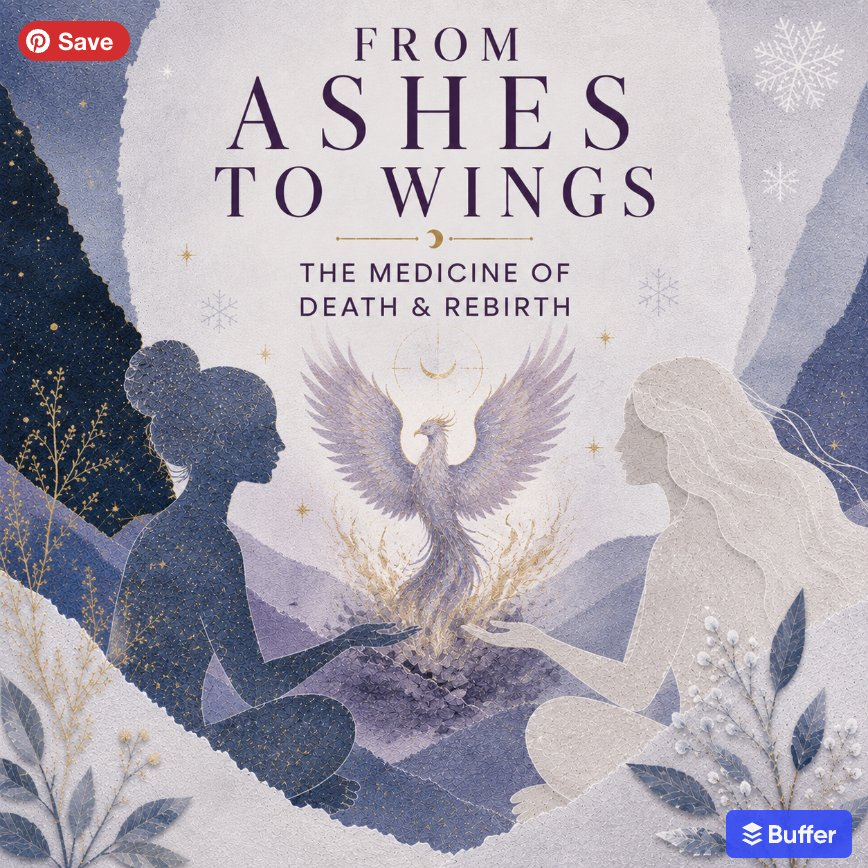
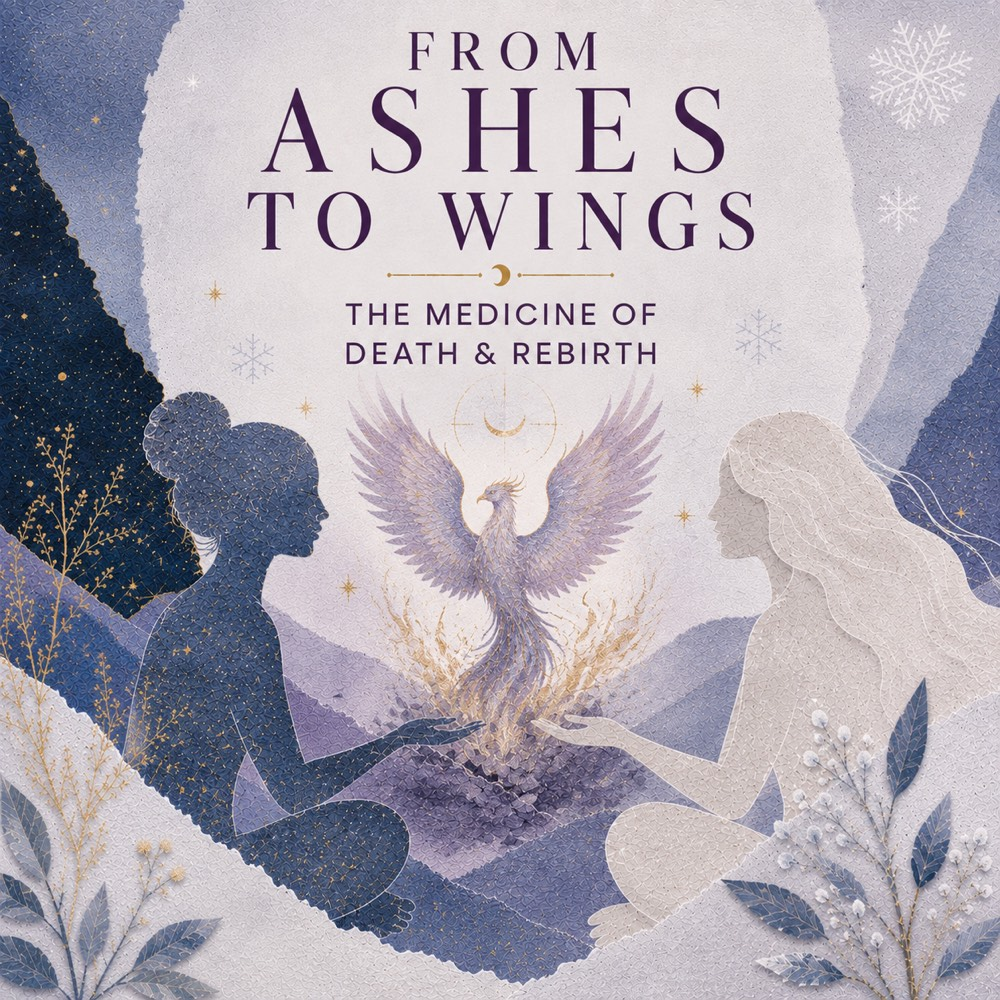
Apply Chris's review: new FAQ answers, December class blurb, clean class artwork, yearly price, Body's Wisdom card points to Membership

Changed region(s): [[0.0, 0.0, 0.1555, 0.0933], [0.8088, 0.9332, 0.9954, 0.9954], [0.0311, 0.4977, 0.0933, 0.5599]]

diff --git a/membership.html b/membership.html
@@ -288,7 +288,7 @@
             "name": "What is the Grove Circle Membership?",
             "acceptedAnswer": {
               "@type": "Answer",
-              "text": "The Grove Circle Membership is a monthly online membership with Chris Young-Ginzburg of Grove Circle Healing, a sound healer and intuitive guide based in Sonoma County, California. Members deepen their intuition and connect with a supportive community through monthly guided meditations, coaching exercises, and exclusive perks."
+              "text": "The Grove Circle Membership is an online community led by Chris Young-Ginzburg, offering monthly interactive classes that support personal growth, intuitive development, and energetic well-being. Each class explores a unique theme through practical teachings, psychic and energy-healing exercises, guided meditation, sound healing, and meaningful group discussion. Members also enjoy monthly Prayer Circles and a growing library of resources to deepen their self-awareness, strengthen their intuition, and feel supported on their journey."
             }
           },
           {
@@ -296,7 +296,7 @@
             "name": "How much does the membership cost?",
             "acceptedAnswer": {
               "@type": "Answer",
-              "text": "The Grove Circle Membership is $30.00 / month with a 5 day free trial."
+              "text": "The Grove Circle Membership is $30.00 / month with a 5 day free trial. A one-year membership is $288 (20% off)."
             }
           },
           {
@@ -320,7 +320,7 @@
             "name": "What is the Prayer Circle?",
             "acceptedAnswer": {
               "@type": "Answer",
-              "text": "The Prayer Circle is a monthly opportunity to participate in a prayer session, for yourself or someone in need, with sound healing, channeled songs, Light Language, and a guided journey."
+              "text": "A monthly opportunity to participate in a prayer session, for yourself or someone in need, including sound healing, channeled songs, Light Language, and a guided journey."
             }
           },
           {
@@ -406,6 +406,9 @@
       text-transform: uppercase;
     }
     .mb-hero__actions { display: flex; flex-wrap: wrap; gap: 0.9rem; align-items: center; }
+    .mb-price-year { margin: -1.2rem 0 2rem; font-size: 0.92rem; color: rgba(255,255,255,0.72); }
+    .mb-price-year a { color: #fff; border-bottom: 1px solid rgba(255,255,255,0.4); }
+    .mb-price-year a:hover { border-color: #fff; }
     .mb-hero__meta { margin-top: 1.7rem; font-size: 0.82rem; color: rgba(255,255,255,0.55); }
     .mb-hero__meta span { margin: 0 0.5rem; }
     .mb-hero__meta a { color: rgba(255,255,255,0.82); border-bottom: 1px solid rgba(255,255,255,0.3); transition: color 0.2s ease, border-color 0.2s ease; }
@@ -942,6 +945,7 @@
             <span class="mb-price__per">/ month</span>
             <span class="mb-price__trial">with 5 day free trial</span>
           </div>
+          <p class="mb-price-year animate animate-delay-3">Or one year for $288 (20% off). <a href="https://grovecirclehealing.thinkific.com/enroll/3003373?price_id=3893579">Choose yearly</a></p>
           <div class="mb-hero__actions animate animate-delay-4">
             <a href="https://grovecirclehealing.thinkific.com/cart/add_product/3003373?price_id=3861534" class="btn btn-primary">Sign Up Here</a>
             <button type="button" class="btn btn-ghost-white" data-open-video><span class="mb-play-dot" aria-hidden="true"></span>Watch Intro Video</button>
@@ -977,12 +981,13 @@
     <div class="container">
       <div class="mb-next__card animate">
         <div class="mb-next__art">
-          <img src="img/from-ashes-to-wings-2026.jpg" alt="From Ashes to Wings: The Medicine of Death and Rebirth class artwork" width="868" height="868" loading="lazy" decoding="async">
+          <img src="img/from-ashes-to-wings-2026.jpg" alt="From Ashes to Wings: The Medicine of Death and Rebirth class artwork" width="1000" height="1000" loading="lazy" decoding="async">
         </div>
         <div class="mb-next__body">
           <p class="eyebrow eyebrow--gold" style="margin-bottom:1rem;">Next Class</p>
           <h2>"From Ashes to Wings: The Medicine of Death &amp; Rebirth"</h2>
-          <p style="margin-bottom:1rem;">Honor the year’s transformations through reflection, journaling, and restorative sound healing as you release what is ending and welcome your next chapter with trust, clarity, and intention.</p>
+          <p style="margin-bottom:1rem;">Reflect on the endings, transformations, and new beginnings that shaped your 2026. Through guided discussion, journaling, intuitive reflection, and a restorative sound healing meditation, we’ll honor what’s being released and explore what’s emerging as you prepare for 2027.</p>
+          <p style="margin-bottom:1rem;">This 90-minute online class invites you to bring a journal, pen, and a comfortable place to meditate. A recording will be available in the Membership library.</p>
           <p>Begins, Dec. 4th, 2026, 10AM Pacific. Sign up today to unlock your intuitive potential!</p>
           <ul class="mb-clock" id="mbClock" role="timer" data-deadline="2026-12-04T10:00:00-08:00">
             <li><span class="mb-clock__n" data-unit="d">00</span><strong>Days</strong></li>
@@ -1261,11 +1266,11 @@
       <div class="faq-list">
         <div class="faq-item animate">
           <h3>What is the Grove Circle Membership?</h3>
-          <p>The Grove Circle Membership is a monthly online membership with Chris Young-Ginzburg of Grove Circle Healing, a sound healer and intuitive guide based in Sonoma County, California. Members deepen their intuition and connect with a supportive community through monthly guided meditations, coaching exercises, and exclusive perks.</p>
+          <p>The Grove Circle Membership is an online community led by Chris Young-Ginzburg, offering monthly interactive classes that support personal growth, intuitive development, and energetic well-being. Each class explores a unique theme through practical teachings, psychic and energy-healing exercises, guided meditation, sound healing, and meaningful group discussion. Members also enjoy monthly Prayer Circles and a growing library of resources to deepen their self-awareness, strengthen their intuition, and feel supported on their journey.</p>
         </div>
         <div class="faq-item animate">
           <h3>How much does the membership cost?</h3>
-          <p>The Grove Circle Membership is $30.00 / month with a 5 day free trial.</p>
+          <p>The Grove Circle Membership is $30.00 / month with a 5 day free trial. A one-year membership is $288 (20% off).</p>
         </div>
         <div class="faq-item animate">
           <h3>What do members get?</h3>
@@ -1277,7 +1282,7 @@
         </div>
         <div class="faq-item animate">
           <h3>What is the Prayer Circle?</h3>
-          <p>The Prayer Circle is a monthly opportunity to participate in a prayer session, for yourself or someone in need, with sound healing, channeled songs, Light Language, and a guided journey.</p>
+          <p>A monthly opportunity to participate in a prayer session, for yourself or someone in need, including sound healing, channeled songs, Light Language, and a guided journey.</p>
         </div>
         <div class="faq-item animate">
           <h3>Where do I sign up?</h3>

diff --git a/the-bodys-wisdom.html b/the-bodys-wisdom.html
@@ -1155,12 +1155,12 @@
         <p class="animate animate-delay-1">Overcome creative obstacles and heal from within with Chris' psychic meditation course designed for artists.</p>
       </div>
       <div class="co-next__card animate">
-        <img src="img/empowering-artist-banner.jpg" alt="Empowering the Artist: Psychic Meditation Course" loading="lazy" decoding="async">
+        <img src="img/grove-circle-membership-logo.jpg" alt="Grove Circle Membership" loading="lazy" decoding="async">
         <div class="co-next__body">
-          <p class="co-next__price">$222.00</p>
-          <h3>Empowering the Artist: Psychic Meditation Course</h3>
-          <p>Empower your life and become the artist you know you were meant to be! A unique experience using psychic meditation tools to break through limitations, focus your artistic vision and open your heart to more of what life has to offer you.</p>
-          <a href="empowering-the-artist.html" class="btn btn-primary">More Info</a>
+          <p class="co-next__price">$30.00 / month</p>
+          <h3>Grove Circle Membership</h3>
+          <p>Join our Grove Circle Membership to deepen your intuition, unlock your inner power, and connect with a supportive community through monthly guided meditations, coaching exercises, and exclusive perks.</p>
+          <a href="membership.html" class="btn btn-primary">More Info</a>
         </div>
       </div>
     </div>
